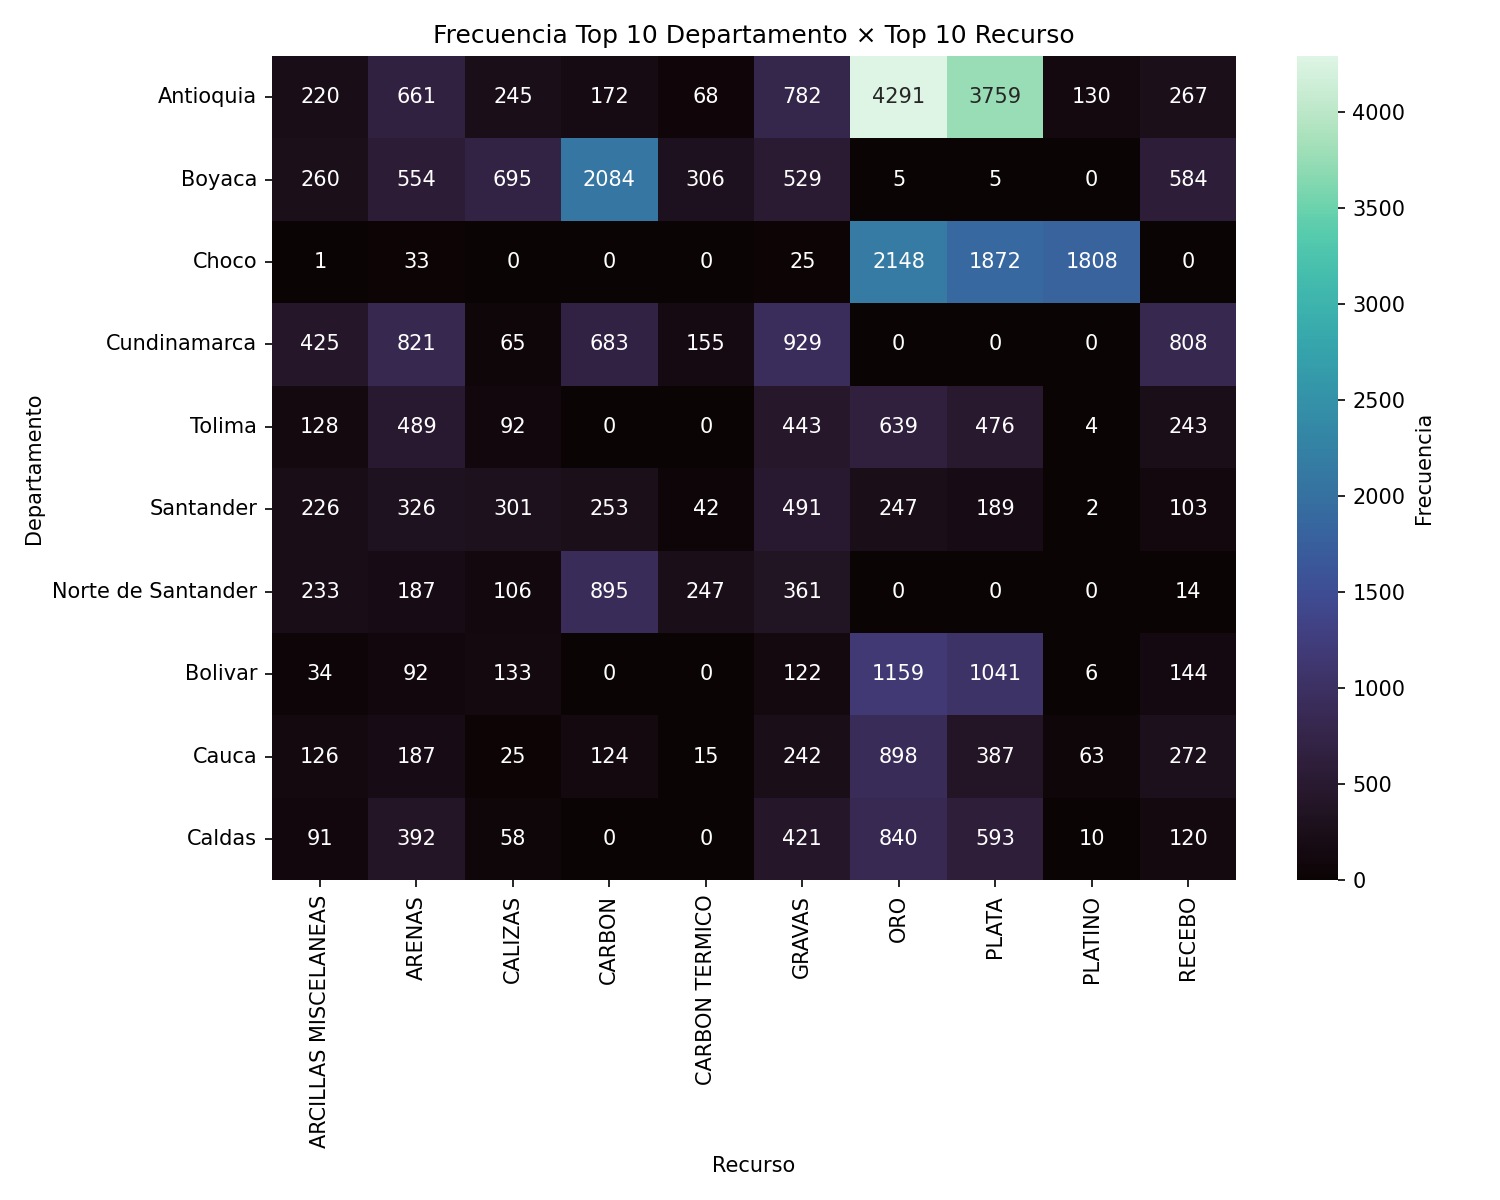
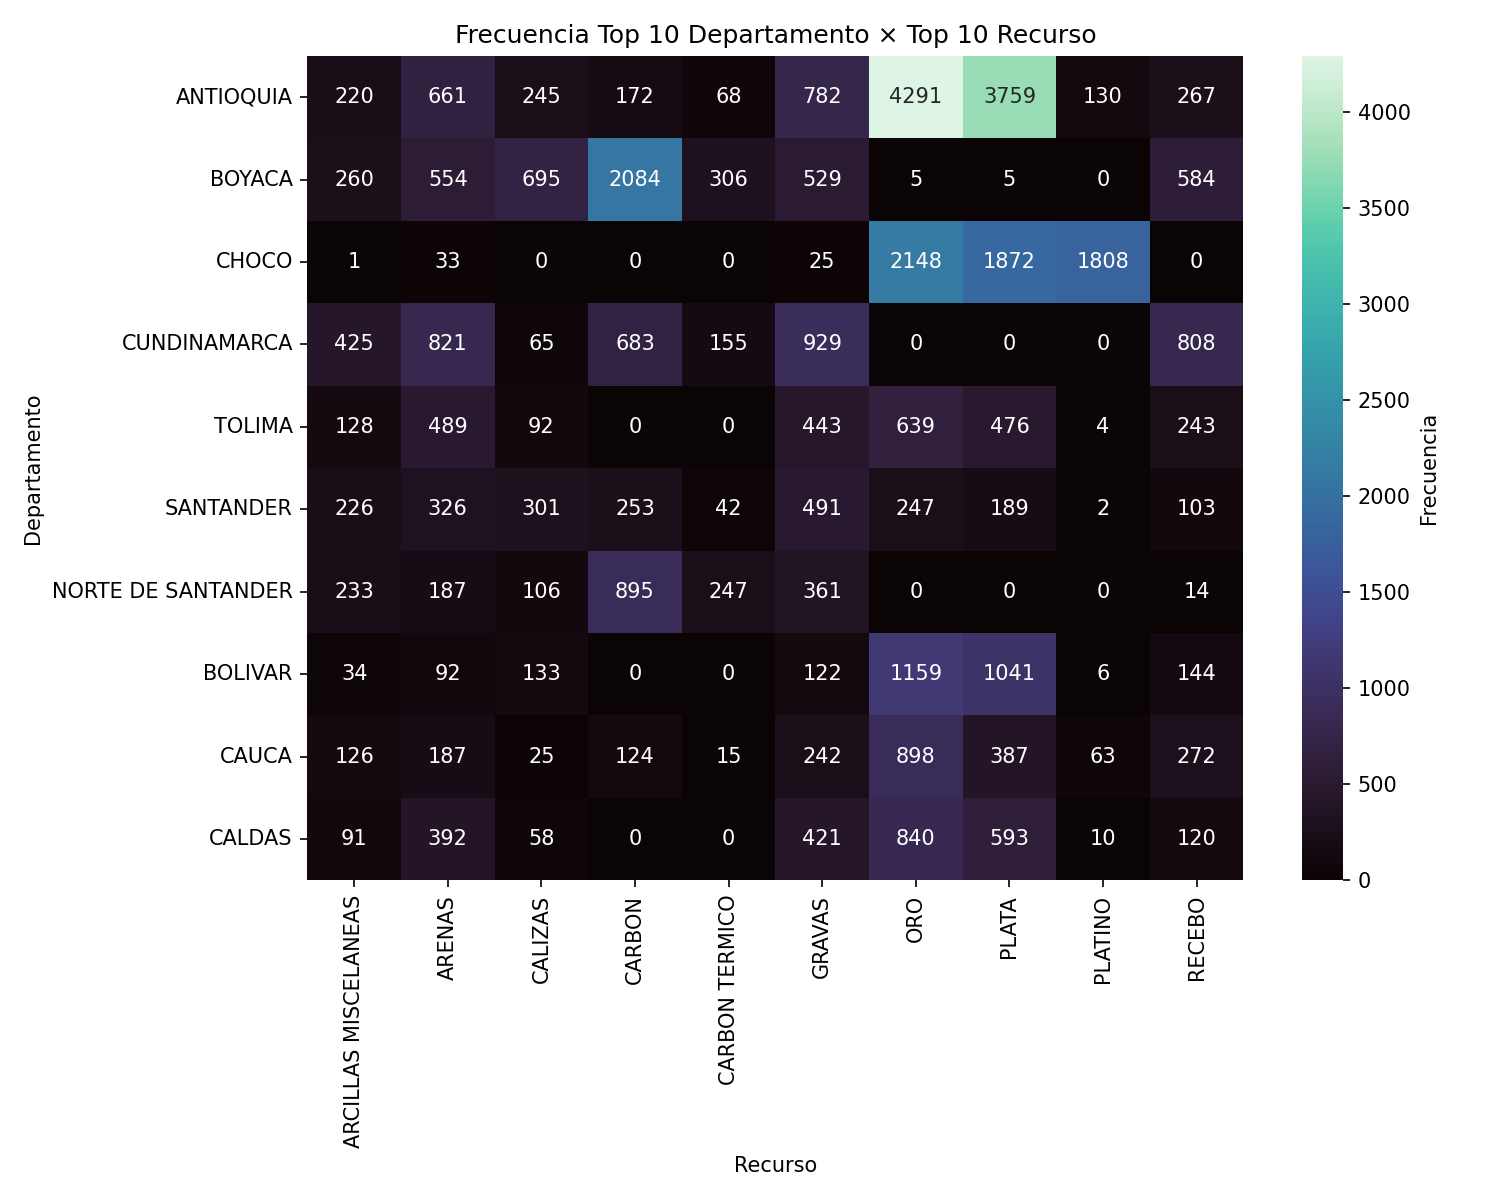
change

diff --git a/Codigo.py b/Codigo.py
@@ -46,8 +46,8 @@ df["Año"] = pd.to_numeric(df["Año"])
 
 
 # Normalizar texto
-df["Recurso"] = df["Recurso"].astype(str).str.strip()
-df["Departamento"] = df["Departamento"].astype(str).str.strip()
+df["Recurso"] = df["Recurso"].astype(str).str.strip().str.upper()
+df["Departamento"] = df["Departamento"].astype(str).str.strip().str.upper()
 
 #  Frecuencia Recurso x Departamento
 counts = (
@@ -154,11 +154,11 @@ lista_carbon = ["CARBON", "CARBON TERMICO", "CARBON ANTRACITA"]
 
 # Función de categorización
 def categorize_resource(value: str) -> str:
-    r = str(value).strip().upper()
-    if r in [x.upper() for x in lista_carbon]:
+    r = str(value)
+    if r in lista_carbon:
         return "Carbon"
     for etiquetas in map_estrategicos.values():
-        if r in [e.upper() for e in etiquetas]:
+        if r in etiquetas:
             return "Estrategico"
     return "Otros"
 # Aplicar categorización al DataFrame
@@ -249,7 +249,7 @@ st.title("Análisis Minero y Transición Energética")
 st.caption("Vista consolidada: introducción, objetivos, frecuencias, comparativos y datos básicos")
 
 # Imagen de portada bajo el título
-st.image('img/encabezado.png', use_container_width=True)
+st.image('portada.png', use_container_width=True)
 
 st.sidebar.title("Navegación")
 page = st.sidebar.radio(
@@ -441,5 +441,5 @@ elif page == "Conclusiones":
         """,
         unsafe_allow_html=True,
     )
-    st.caption("analisis realizado por Martha cristina arias rodriguez correo: marthacristinaarias@hotmail.com")
+    st.caption("Analisis realizado por Martha cristina arias rodriguez correo: marthacristinaarias@hotmail.com")
 #Fin del codigo😊
